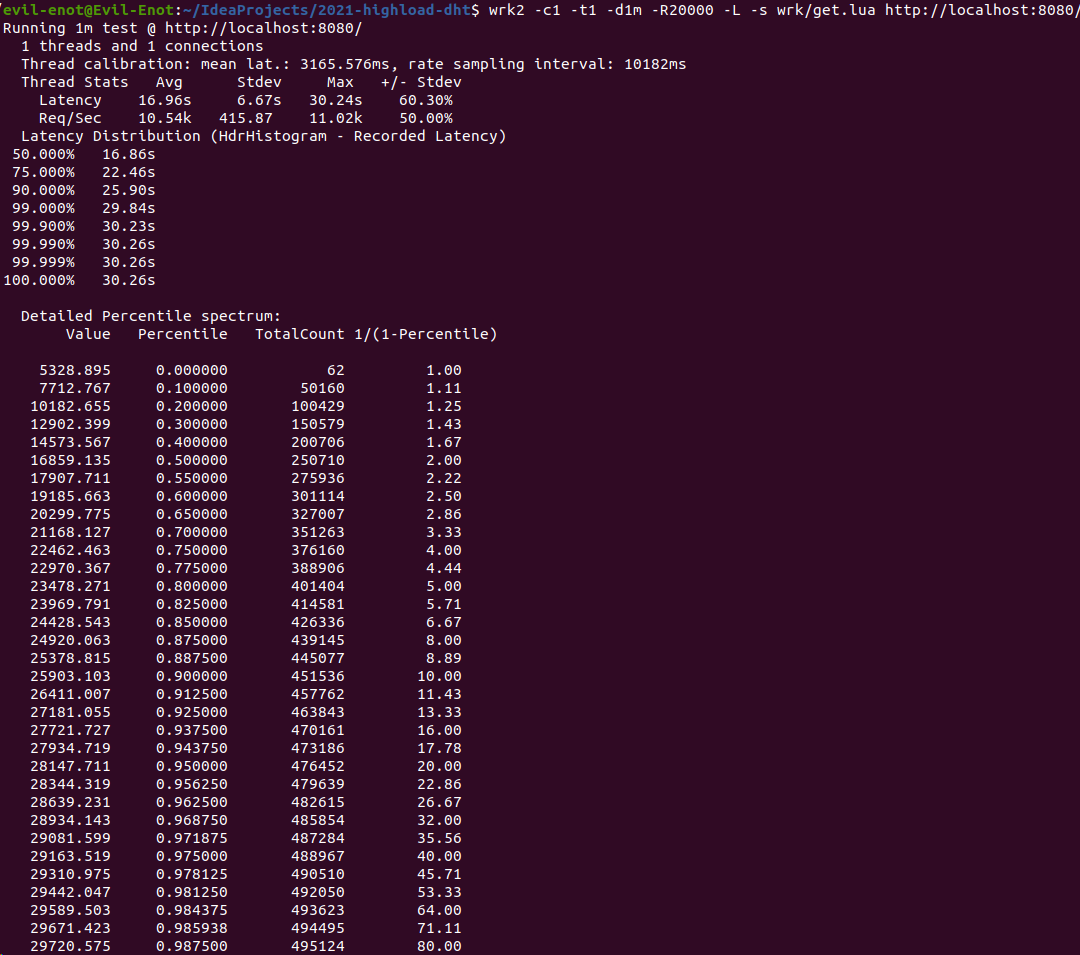
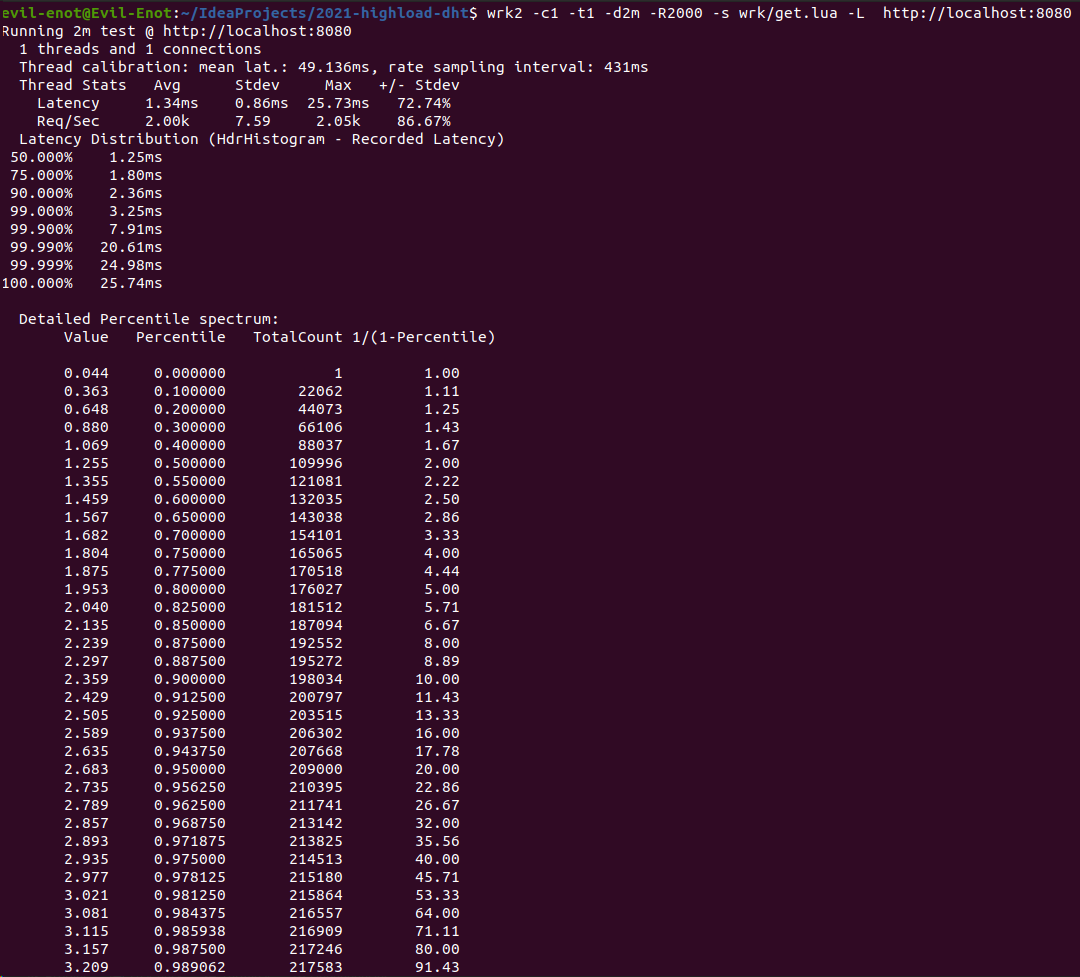
Report fix 1

Changed region(s): [[0.0, 0.0, 1.0, 1.0]]

diff --git a/report/REPORT.md b/report/REPORT.md
@@ -18,10 +18,10 @@ request = function()
 end
 ```
 
-Запустим тестирование, задав одно соединение, один поток, 20000 запросов/секунду и продолжительность в 1 минуту:
+Запустим тестирование, задав одно соединение, один поток, 2000 запросов/секунду и продолжительность в 2 минуты:
 
 ```
-wrk2 -c1 -t1 -d1m -R20000 -L -s wrk/put.lua http://localhost:8080/
+wrk2 -c1 -t1 -d2m -R2000 -L -s wrk/put.lua http://localhost:8080/
 ```
 
 В итоге получим следующие результаты:
@@ -29,11 +29,12 @@ wrk2 -c1 -t1 -d1m -R20000 -L -s wrk/put.lua http://localhost:8080/
 ![Рис.1. Нагрузочное тестирование PUT-запросов часть 1](put_wrk2_result_part_1.png)
 ![Рис.2. Нагрузочное тестирование PUT-запросов часть 2](put_wrk2_result_part_2.png)
 
-Как можно увидеть, среднее выполнение запросов равно 13.34 сек, максимальное 27.2 сек, в секунду передавалось ~10906
-запросов, а общее количество запросов и количество переданной информации было равно 654427 и 49.30МБ соответственно.
+Как можно увидеть, среднее выполнение запросов равно 22.86 ms, максимальное 2.06 сек, в секунду передавалось ~2000
+запросов, а общее количество запросов и количество переданной информации было равно 239996 и 18.08МБ соответственно.
 
-Проанализировав результаты можно заметить, что 90 и более процентов запросов обрабатывается с задержкой более чем в
-25.48 сек
+Проанализировав результаты можно заметить, что 99% запросов обрабатывается с задержкой в 1.05 сек, т.е. появляетмся
+большой скачое в задержке передачи запросов, т.к. 90% обрабатывается всего за 2.68ms. На 99.9 задержка равна уже почти
+2-м секундам
 
 ### Wrk2 скрипт для GET-запросов:
 
@@ -51,7 +52,7 @@ end
 Запустим тестирование с теми же значениями, что и для PUT-запросов:
 
 ```
-wrk2 -c1 -t1 -d1m -R20000 -L -s wrk/get.lua http://localhost:8080/
+wrk2 -c1 -t1 -d2m -R2000 -L -s wrk/get.lua http://localhost:8080/
 ```
 
 В итоге получим следующие результаты:
@@ -59,11 +60,11 @@ wrk2 -c1 -t1 -d1m -R20000 -L -s wrk/get.lua http://localhost:8080/
 ![Рис.3. Нагрузочное тестирование GET-запросов часть 1](get_wrk2_result_part_1.png)
 ![Рис.4. Нагрузочное тестирование GET-запросов часть 2](get_wrk2_result_part_2.png)
 
-Как можно увидеть, среднее выполнение запросов равно 16.96 сек, максимальное 30.24 сек, в секунду передавалось ~9916
-запросов, а общее количество запросов и количество переданной информации было равно 594980 и 41.87МБ соответственно.
+Как можно увидеть, среднее выполнение запросов равно 1.34ms, максимальное 25.73ms, в секунду передавалось ~2k запросов,
+а общее количество запросов и количество переданной информации было равно 239995 и 16.82МБ соответственно.
 
-Проанализировав результаты можно заметить, что 90% запросов выполняются с задержкой в 25.9 сек, а 99% и более
-обрабатывается с задержкой более чем за 29.84 сек
+Проанализировав результаты можно заметить, что 99.9% запросов выполняются с задержкой в 7.91 ms, а уже 99.99% и более
+обрабатывается с задержкой более чем в 20,64 ms, т.е. возникает резкий рост задержки.
 
 ## Часть 2: Профилирование запросов с использованием [async-profiler](https://github.com/jvm-profiling-tools/async-profiler)
 
